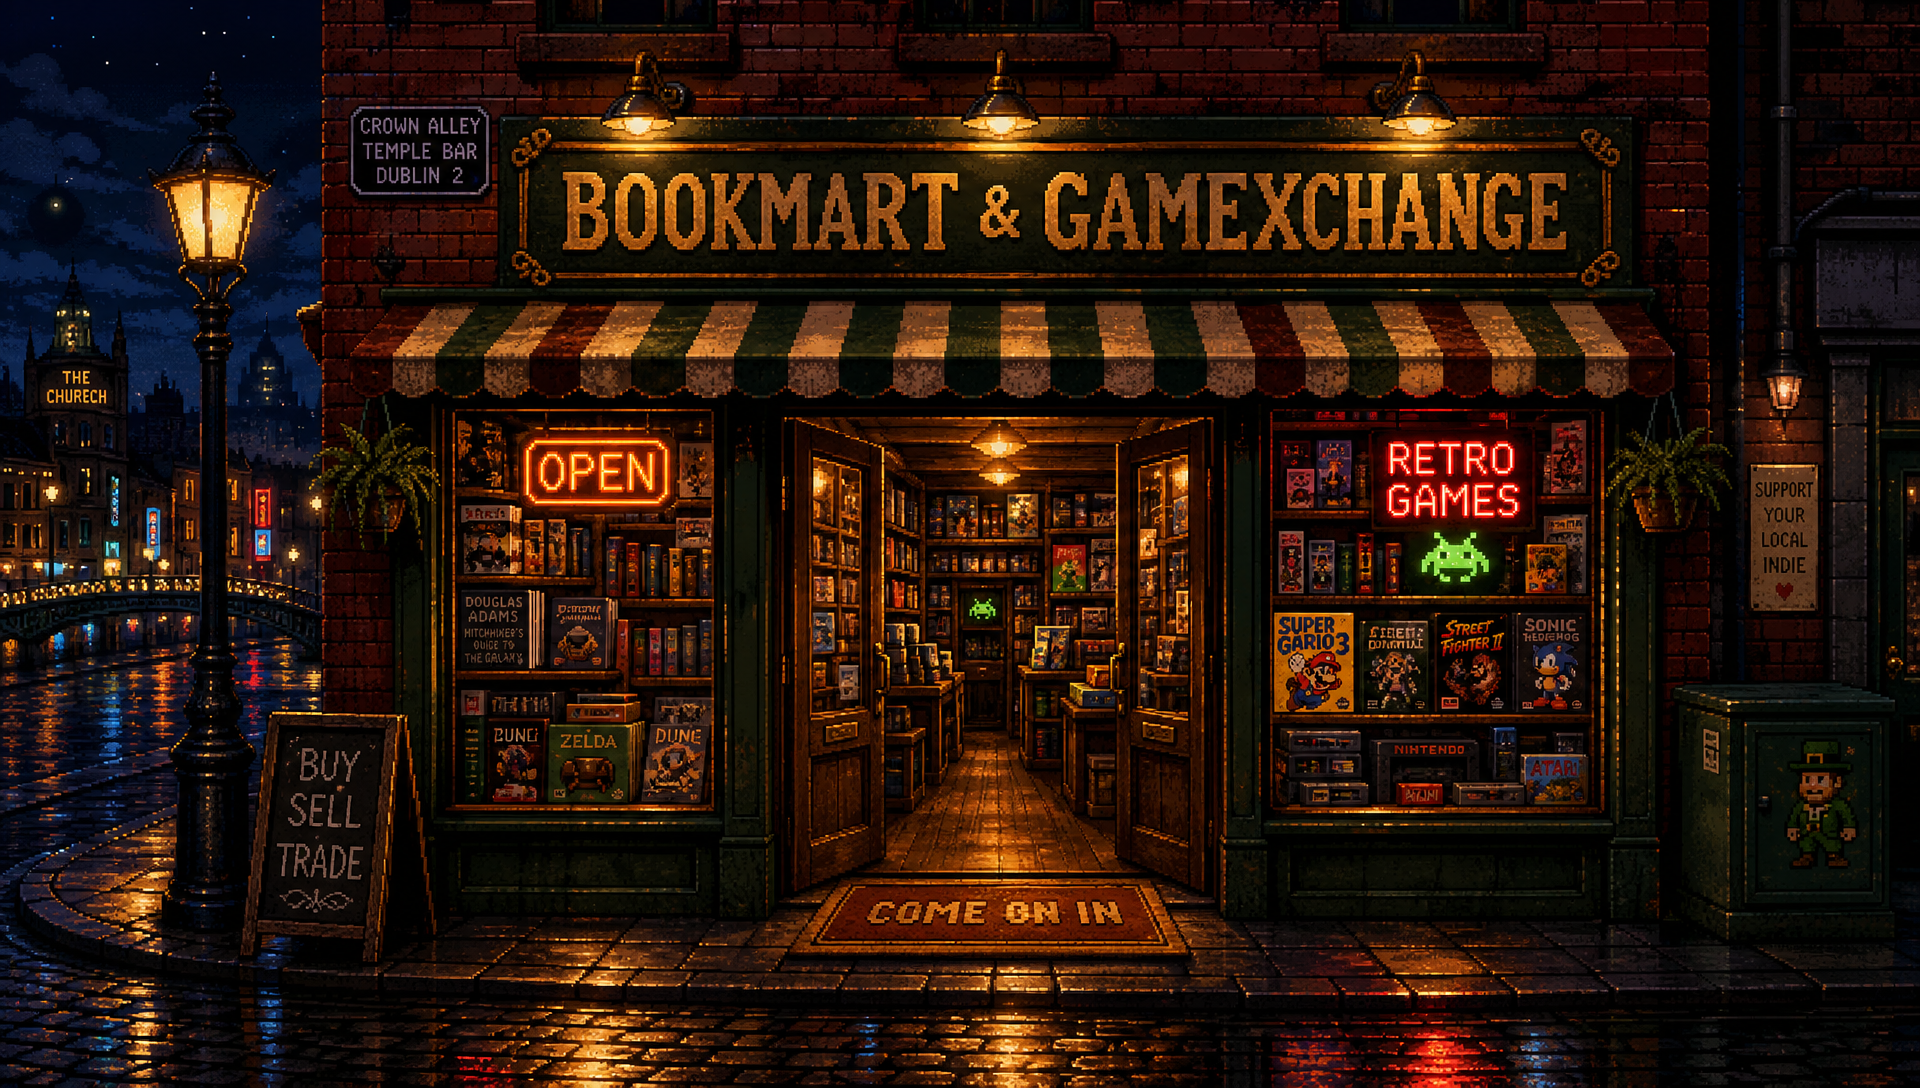
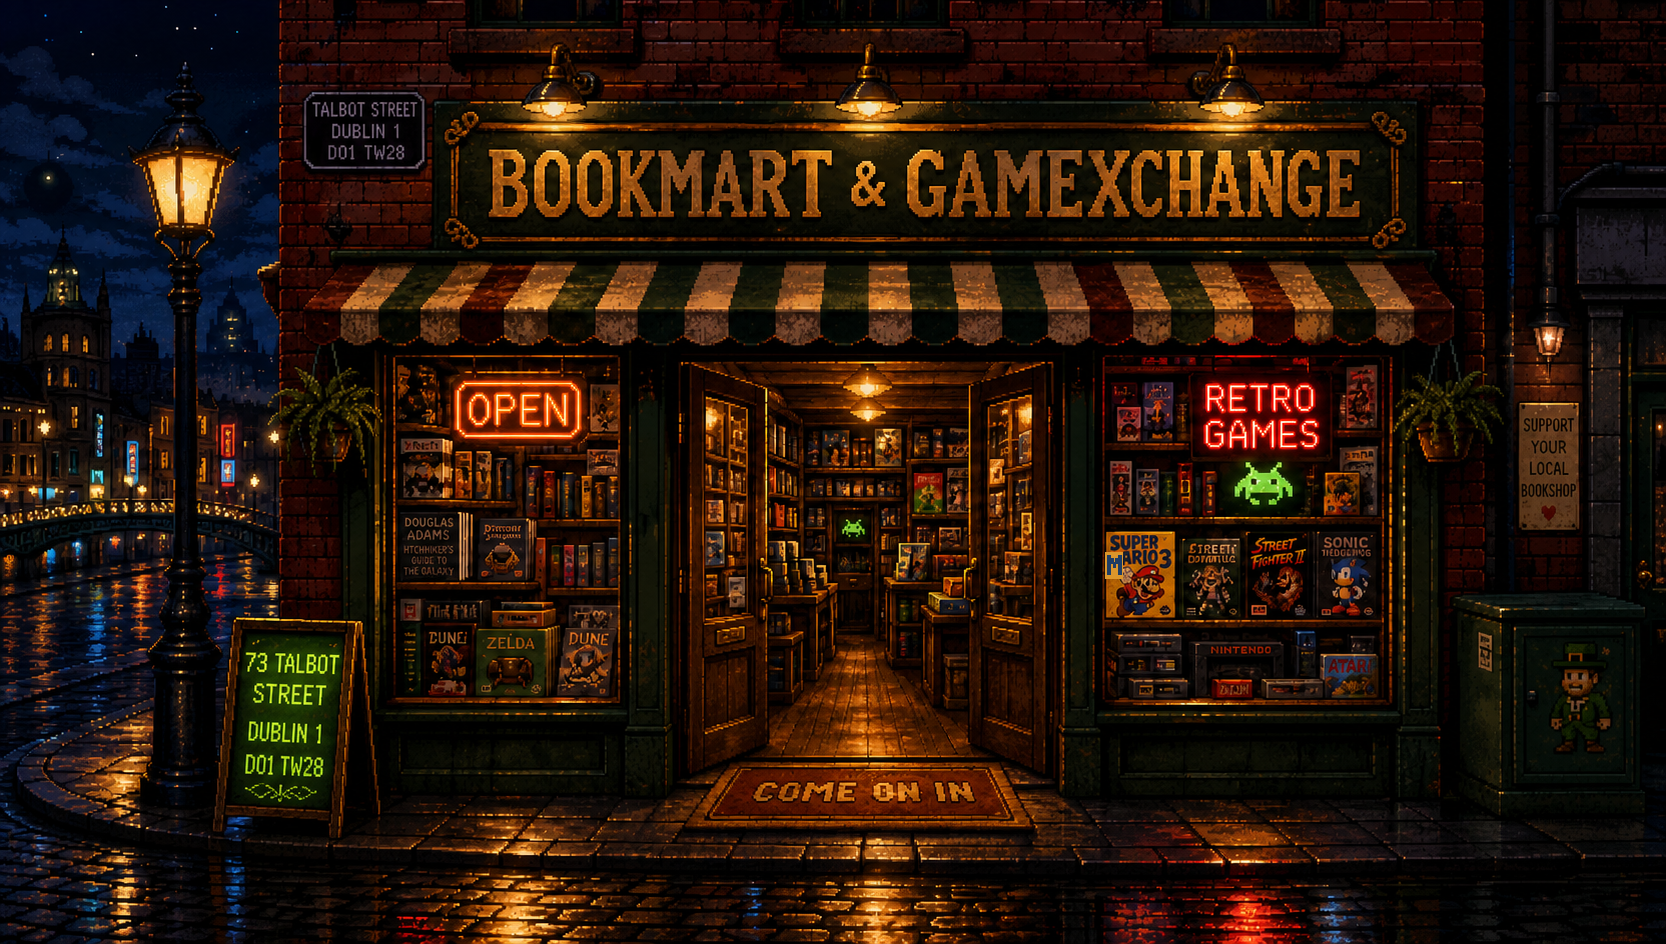
Apply approved Lovable storefront corrections

diff --git a/src/components/shop/Storefront.tsx b/src/components/shop/Storefront.tsx
@@ -4,6 +4,7 @@ import { Search } from "lucide-react";
 
 import storefrontWide from "@/assets/storefront-pixel.png";
 import storefrontPortrait from "@/assets/storefront-pixel-portrait.png";
+import { SHOP } from "@/data/shop";
 
 /**
  * The shopfront, drawn in pixel art. Everything interactive is a place in the
@@ -50,7 +51,13 @@ const HOTSPOTS: Hotspot[] = [
     id: "board",
     label: "Buy, sell, trade",
     glow: "var(--glass-green)",
-    box: "left-[6%] top-[63%] h-[14%] w-[16%] lg:left-[12.5%] lg:top-[63%] lg:h-[24%] lg:w-[10%] landscape:left-[12.5%] landscape:top-[63%] landscape:h-[24%] landscape:w-[10%]",
+    box: "left-[6%] top-[63%] h-[14%] w-[16%] lg:hidden landscape:hidden",
+  },
+  {
+    id: "map",
+    label: "Find Bookmart at 73 Talbot Street, Dublin 1",
+    glow: "var(--glass-green)",
+    box: "hidden lg:block lg:left-[12.5%] lg:top-[63%] lg:h-[24%] lg:w-[10%] landscape:left-[12.5%] landscape:top-[63%] landscape:block landscape:h-[24%] landscape:w-[10%]",
   },
 ];
 
@@ -60,6 +67,7 @@ const GLOW_CENTRES: Record<string, string> = {
   games: "73% 55%",
   books: "30% 55%",
   board: "17% 74%",
+  map: "17% 74%",
 };
 
 export function Storefront({ onEnter }: { onEnter: () => void }) {
@@ -96,6 +104,10 @@ export function Storefront({ onEnter }: { onEnter: () => void }) {
 
   const act = (id: string) => {
     if (id === "board") return toTrade();
+    if (id === "map") {
+      window.open(SHOP.maps, "_blank", "noopener,noreferrer");
+      return;
+    }
     if (id === "books") return void navigate({ to: "/library" });
     if (id === "games") return void navigate({ to: "/arcade" });
     onEnter();

diff --git a/src/components/shop/ShopBar.tsx b/src/components/shop/ShopBar.tsx
@@ -1,5 +1,5 @@
 import { Link } from "@tanstack/react-router";
-import { Heart, User, ShoppingBag } from "lucide-react";
+import { Heart, KeyRound, User, ShoppingBag } from "lucide-react";
 
 import { useList } from "@/lib/shop-lists";
 
@@ -28,6 +28,14 @@ export function ShopBar() {
         </Link>
 
         <nav aria-label="The counter" className="flex shrink-0 items-center gap-0.5 text-brass/75">
+          <Link
+            to="/staff"
+            aria-label="Admin login"
+            className="mr-1 inline-flex min-h-11 items-center gap-2 rounded-sm border border-brass/25 bg-timber-deep/70 px-3 text-[0.68rem] font-semibold tracking-[0.12em] text-lamplight uppercase transition-[border-color,background-color,color] duration-200 ease-[var(--ease-brass)] hover:border-brass/50 hover:bg-timber-deep focus-visible:outline focus-visible:outline-2 focus-visible:outline-offset-2 focus-visible:outline-brass/60 sm:px-4 sm:text-xs"
+          >
+            <KeyRound className="h-3.5 w-3.5 text-brass" aria-hidden="true" />
+            Admin
+          </Link>
           <IconLink to="/account" label="Account">
             <User className="h-[1.1rem] w-[1.1rem]" />
           </IconLink>

diff --git a/src/components/shop/Rooms.tsx b/src/components/shop/Rooms.tsx
@@ -29,12 +29,6 @@ export function Rooms() {
       }}
       onPointerLeave={() => setActive(null)}
     >
-      <div className="mx-auto max-w-[1800px] px-6 pt-16 pb-6 sm:px-8 md:pt-20 md:pb-8">
-        <h2 className="sign-plate text-[clamp(1.55rem,3vw,2.15rem)] leading-[1.15] text-lamplight">
-          Four rooms
-        </h2>
-      </div>
-
       <div className="grid grid-cols-1 md:grid-cols-4">
         {ROOMS.map((room) => {
           const isActive = canHover && active === room.id;
@@ -95,9 +89,11 @@ export function Rooms() {
               />
 
               <div className="relative p-7 sm:p-8">
-                <h3 className="sign-plate text-[1.6rem] leading-[1.15] text-lamplight sm:text-[1.8rem]">
-                  {room.name}
-                </h3>
+                {room.id === "library" ? (
+                  <h3 className="sign-plate text-[1.6rem] leading-[1.15] text-lamplight sm:text-[1.8rem]">
+                    {room.name}
+                  </h3>
+                ) : null}
 
                 <ul className="mt-4 flex flex-wrap gap-x-4 gap-y-2">
                   {room.tags.map((tag) => (

diff --git a/src/data/shop.ts b/src/data/shop.ts
@@ -6,14 +6,15 @@ export const SHOP = {
   name: "Bookmart & GameXchange",
   street: "73 Talbot Street",
   city: "Dublin 1",
+  postcode: "D01 TW28",
   country: "Ireland",
   phone: "+353 1 878 8925",
   phoneHref: "tel:+35318788925",
   email: "hello@bookmart.ie",
   emailHref: "mailto:hello@bookmart.ie",
-  maps: "https://www.google.com/maps/search/?api=1&query=73+Talbot+Street%2C+Dublin+1",
+  maps: "https://www.google.com/maps/search/?api=1&query=73+Talbot+Street%2C+Dublin+1%2C+D01+TW28",
   directions:
-    "https://www.google.com/maps/dir/?api=1&destination=73+Talbot+Street%2C+Dublin+1",
+    "https://www.google.com/maps/dir/?api=1&destination=73+Talbot+Street%2C+Dublin+1%2C+D01+TW28",
   hours: [
     { days: "Monday – Saturday", time: "10am – 7pm" },
     { days: "Sunday", time: "12pm – 6pm" },

diff --git a/src/components/shop/TradeCounter.tsx b/src/components/shop/TradeCounter.tsx
@@ -57,6 +57,8 @@ export function TradeCounter() {
                   {SHOP.street}
                   <br />
                   {SHOP.city}
+                  <br />
+                  {SHOP.postcode}
                 </a>
                 <br />
                 <a
